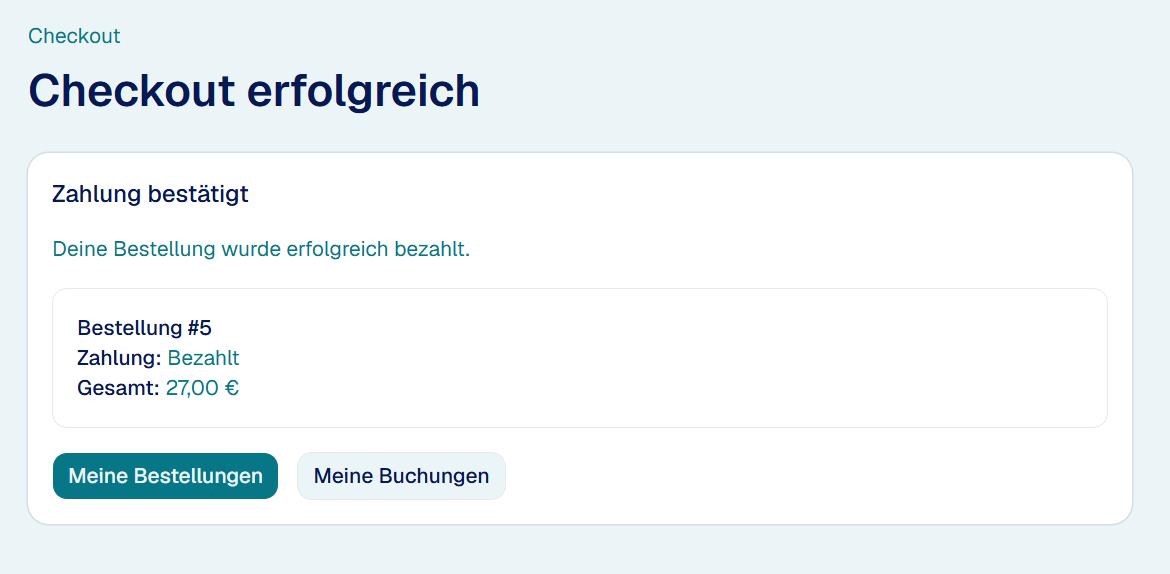
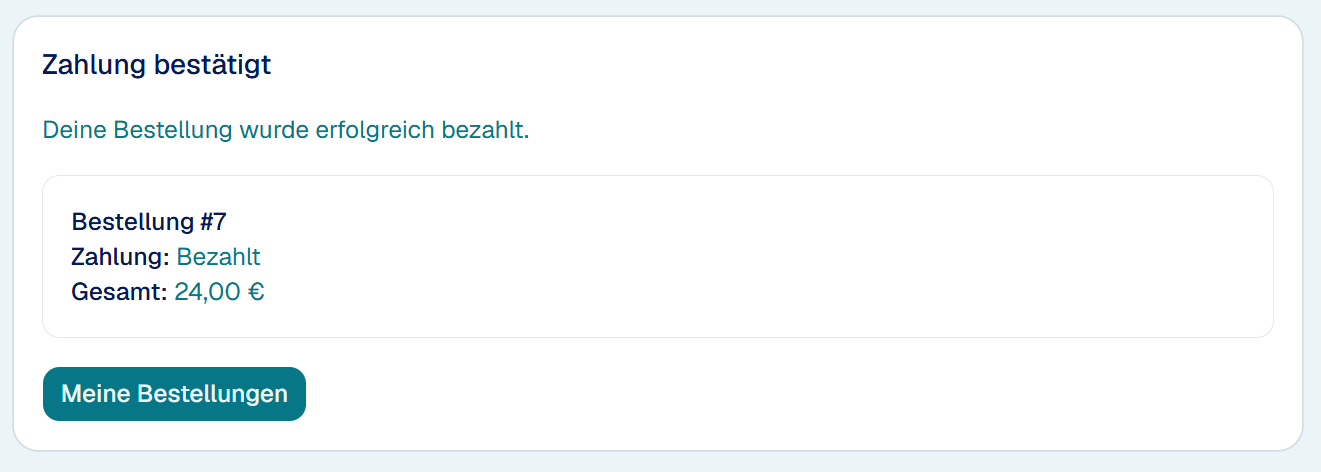
push

diff --git a/Kapitel/5_Prototypische_Umsetzung.tex b/Kapitel/5_Prototypische_Umsetzung.tex
@@ -632,7 +632,22 @@ beschränkt bleibt.
 \caption{Bestätigungsseite nach erfolgreicher Zahlung}
 \label{fig:checkout_success}
 \end{figure}
+Die Erfolgsseite bietet genau einen Weg weiter wie auf die in Abbildung~\ref{fig:checkout_success} angezeigt. Besteht der Auftrag
+ausschließlich aus Buchungen, führt sie zur Buchungsübersicht, sonst
+zur Bestellübersicht. Ein gemischter Auftrag fällt damit auf die
+Bestellübersicht, weil diese sämtliche Positionen führt und die
+enthaltenen Buchungen von dort erreichbar sind (vgl.
+Abschnitt~\ref{subsec:impl_buchungen}). Die Entscheidung liegt in
+einer eigenen Funktion, sodass sie an einer Stelle steht.
 
+\begin{lstlisting}[language=TypeScript,caption={Wahl der Zielansicht nach der Zahlung (order-format.ts)},label={lst:success-destination}]
+export function getCheckoutSuccessDestination(order?: Pick<OrderRecord, 'items'> | null) {
+  const containsOnlyBookings =
+    Boolean(order?.items.length) && order?.items.every((item) => Boolean(item.service_booking))
+
+  return containsOnlyBookings ? '/account/bookings' : '/account/orders'
+}
+\end{lstlisting}
 Die Nebenwirkungen der Erfolgsseite sind in einem Effekt
 gekapselt. Er prüft zunächst, ob die Zahlung tatsächlich erfolgt
 ist, und bricht andernfalls ab. Erst danach wird der Warenkorb
